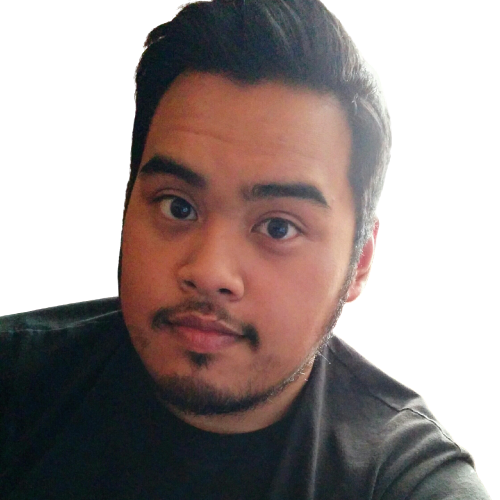
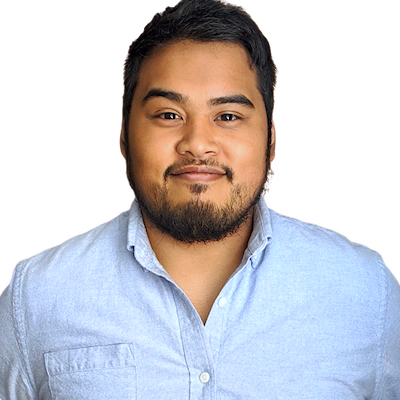
finished contact section

diff --git a/src/components/header/Header.module.css b/src/components/header/Header.module.css
@@ -7,7 +7,6 @@
   backdrop-filter: blur(50px);
   display: grid;
   place-items: center;
-  padding: 0 2rem;
   z-index: 99;
   background-color: var(--bg);
   transition: 0.5s all ease-in-out;
@@ -27,19 +26,20 @@
   font-size: 1.5rem;
   color: var(--header-text);
   flex-grow: 1;
+  margin-left: 2rem;
 }
 
 .nav {
   display: flex;
 }
 
-.link {
+.nav .link {
   margin-left: 3rem;
   color: var(--header-text);
   transition: 0.3s all ease-in-out;
 }
 
-.link:hover {
+.nav .link:hover {
   color: var(--header-text-highlight);
 }
 
@@ -47,7 +47,7 @@
   height: 30px;
   width: 30px;
   fill: var(--header-text);
-  margin-left: 3rem;
+  margin: 0 2rem 0 3rem;
   transition: 0.3s all ease-in-out;
 }
 
@@ -65,10 +65,13 @@
 }
 
 @media (max-width: 580px) {
+  .sun {
+    margin: 0;
+  }
   .hamburger {
     display: block;
     stroke: var(--header-text);
-    margin-left: 2rem;
+    margin: 0 2rem;
   }
   .hamburger:hover {
     cursor: pointer;
@@ -78,38 +81,20 @@
   }
   .menu {
     position: absolute;
-    left: 0;
     top: 80px;
     width: 100%;
     display: flex;
     flex-direction: column;
     overflow: hidden;
-    padding: 0;
-    border-radius: 0 0 0 30px;
+    background: var(--header-menu-bg);
+    border-bottom: 5px solid var(--primary);
   }
-  .video {
-    width: 100%;
-    position: absolute;
-    z-index: -1;
-  }
-  .link {
+  .menu .link {
     font-size: 2rem;
     color: var(--header-bg);
     font-weight: bold;
-    margin: 0;
     background-color: var(--header-menu-bg);
-    padding: 1rem 0 1rem 3rem;
-    margin-left: 30%;
-    border-radius: 10px 0 0 10px;
-    margin-bottom: 0.4rem;
-  }
-  .link:nth-of-type(1) {
-    margin-top: 0.3rem;
-  }
-  .link:nth-of-type(2) {
-    margin-left: 40%;
-  }
-  .link:last-of-type {
-    margin-left: 50%;
+    padding: 1rem 0 1rem 2rem;
+    margin: 0 0 0 2rem;
   }
 }

diff --git a/src/components/footer/Footer.js b/src/components/footer/Footer.js
@@ -1,0 +1,39 @@
+import React from 'react'
+import style from './Footer.module.css'
+import Button from '../button/Button'
+
+// social icons
+import { ReactComponent as Medium } from '../../assets/icons/medium.svg'
+import { ReactComponent as Linkedin } from '../../assets/icons/linkedin.svg'
+import { ReactComponent as Twitter } from '../../assets/icons/twitter.svg'
+
+const Footer = () => {
+
+  // gets current date for the copyright
+  const date = new Date()
+  const year = date.getFullYear()
+
+  return (
+    <footer className={style.footer}>
+      <div className={style.wrapper}>
+        <div className={style.copyright}>Made by Danny Seng - Copyright {year}</div>
+        <div className={style.socialWrapper}>
+          <Button
+            variant="social"
+            label={<Medium />}
+            href="https://medium.com/@dannyseng" />
+          <Button
+            variant="social"
+            label={<img src={<Linkedin />} alt="" />}
+            href="http://www.twitter.com/dnnysng" />
+          <Button
+            variant="social"
+            label={<img src={<Twitter />} alt="" />}
+            href="https://www.linkedin.com/in/dannyseng/" />
+        </div>
+      </div>
+    </footer>
+  )
+}
+
+export default Footer

diff --git a/src/components/blog/Blog.js b/src/components/blog/Blog.js
@@ -11,7 +11,7 @@ const LatestUpdates = () => {
   const [posts, setPosts] = useState([])
 
   useEffect(() => {
-    fetch("https://api.rss2json.com/v1/api.json?rss_url=https%3A%2F%2Fmedium.com%2Ffeed%2F%40dannyseng&api_key=r0xpcslhqezp8mcrrgg8meveoeyzvmjyxpq6hds3")
+    fetch("https://api.rss2json.com/v1/api.json?rss_url=https%3A%2F%2Fwww.medium.com%2Ffeed%2F%40dannyseng&api_key=r0xpcslhqezp8mcrrgg8meveoeyzvmjyxpq6hds3&order_dir=desc&count=6")
       .then(res => res.json())
       .then(
         (result) => {
@@ -40,6 +40,20 @@ const LatestUpdates = () => {
           label="latest updates"
         />
         <div className={style.cards}>
+          {posts.map(post => <Card
+            title={post.title}
+            date={post.pubDate}
+            thumbnail={post.thumbnail}
+            description={post.description}
+            link={post.link}
+          />)}
+          {posts.map(post => <Card
+            title={post.title}
+            date={post.pubDate}
+            thumbnail={post.thumbnail}
+            description={post.description}
+            link={post.link}
+          />)}
           {posts.map(post => <Card
             title={post.title}
             date={post.pubDate}

diff --git a/src/components/header/Header.js b/src/components/header/Header.js
@@ -9,8 +9,6 @@ import { ReactComponent as Sun } from '../../assets/icons/sun-shape.svg'
 import style from './Header.module.css'
 import theme from '../../App.module.css'
 
-import purple from '../../assets/videos/cool.mp4'
-
 const Header = (props) => {
 
     const [open, cycleOpen] = useCycle(false, true);
@@ -46,7 +44,7 @@ const Header = (props) => {
                                 height: 0,
                             }}
                             animate={{
-                                height: "max-content",
+                                height: 'max-content',
                             }}
                             transition={{
                                 ease: "easeInOut",
@@ -58,7 +56,6 @@ const Header = (props) => {
                             <Link className={style.link} to='/'>Home</Link>
                             <Link className={style.link} to='/work'>Work</Link>
                             <Link className={style.link} to='/contact'>Contact</Link>
-                            <video autoPlay muted type="video/mp4" className={style.video} src={purple} />
                         </motion.nav>
                     )}
                 </AnimatePresence>

diff --git a/src/components/contact/Contact.js b/src/components/contact/Contact.js
@@ -1,0 +1,17 @@
+import React from 'react'
+import style from './Contact.module.css'
+import Button from '../button/Button'
+
+const Contact = () => {
+  return (
+    <div className={style.contact}>
+      <div className={style.wrapper}>
+        <h1 className={style.title}>Contact Me</h1>
+        <p className={style.paragraph}>If you're looking for a frontend developer I'm currently available for hire. Let's talk!</p>
+        <Button variant="cta" label="Email Me at danny.s.seng@gmail.com" />
+      </div>
+    </div>
+  )
+}
+
+export default Contact

diff --git a/src/pages/home.js b/src/pages/home.js
@@ -4,6 +4,8 @@ import React from 'react'
 import Hero from '../components/hero/Hero'
 import Work from '../components/work/Work'
 import Blog from '../components/blog/Blog'
+import Contact from '../components/contact/Contact'
+import Footer from '../components/footer/Footer'
 
 // styles
 import style from './Page.module.css'
@@ -21,6 +23,8 @@ const home = (props) => {
             <Hero />
             <Work />
             <Blog />
+            <Contact />
+            <Footer />
         </div>
     )
 }

diff --git a/src/components/contact/Contact.module.css b/src/components/contact/Contact.module.css
@@ -1,0 +1,28 @@
+.contact {
+  width: 100%;
+  padding: 80px 0;
+}
+
+.wrapper {
+  display: flex;
+  flex-direction: column;
+  align-items: center;
+  padding: 5rem 0 0 0;
+}
+
+.wrapper * {
+  margin-bottom: 2rem;
+  max-width: 500px;
+  text-align: center;
+}
+
+.title {
+  font-size: 64px;
+  line-height: 1.2;
+  color: var(--light);
+}
+
+.paragraph {
+  font-size: 24px;
+  color: var(--text);
+}

diff --git a/src/components/button/Button.module.css b/src/components/button/Button.module.css
@@ -4,7 +4,6 @@
   font-weight: bold;
   transition: 0.3s all ease-in-out;
   padding: 1rem 2rem;
-  margin-right: 1rem;
   border-radius: 10px;
   border: 2px solid var(--primary);
 }
@@ -44,4 +43,14 @@
 
 .transparent:hover {
   color: var(--primary);
+}
+
+.social {
+  border: none;
+}
+
+.social svg {
+  fill: red;
+  width: 50px;
+  height: 50px;
 }

diff --git a/src/components/card/Card.js b/src/components/card/Card.js
@@ -8,7 +8,7 @@ const Card = (props) => {
   const dirtyHtml = props.description
   const cleanHtml = sanitizeHtml(dirtyHtml, {
     allowedTags: [],
-    nonTextTags: ['h1', 'h2', 'h3', 'h4', 'h5', 'h6']
+    nonTextTags: ['h1', 'h2', 'h3', 'h4', 'h5', 'h6', 'figcaption']
   })
 
   // formats the date to "Month Day, Year"

diff --git a/src/components/card/Card.module.css b/src/components/card/Card.module.css
@@ -2,11 +2,12 @@
   width: 100%;
   border-radius: 10px;
   overflow: hidden;
-  filter: drop-shadow(10px 10px 20px #00000011);
+  box-shadow: 10px 10px 0px var(--primary);
+  height: max-content;
 }
 
 .thumbnail {
-  max-height: 50%;
+  height: 200px;
   width: 100%;
   margin-bottom: -7px;
   object-fit: cover;

diff --git a/src/components/hero/Hero.js b/src/components/hero/Hero.js
@@ -1,7 +1,7 @@
 import React from 'react'
 import style from './Hero.module.css'
 import cool from '../../assets/videos/cool.mp4'
-import photo from '../../assets/images/ds-no-bg.png'
+import photo from '../../assets/images/danny-no-bg.png'
 import Button from '../button/Button'
 
 const Hero = (props) => {

diff --git a/src/components/footer/Footer.module.css b/src/components/footer/Footer.module.css
@@ -1,0 +1,15 @@
+.footer {
+  width: 100%;
+  border-top: 1px solid var(--overlay);
+  height: 100px;
+  display: grid;
+  place-items: center;
+}
+
+.wrapper {
+  display: flex;
+  justify-content: space-between;
+  align-items: center;
+  width: 100%;
+  color: var(--text);
+}
